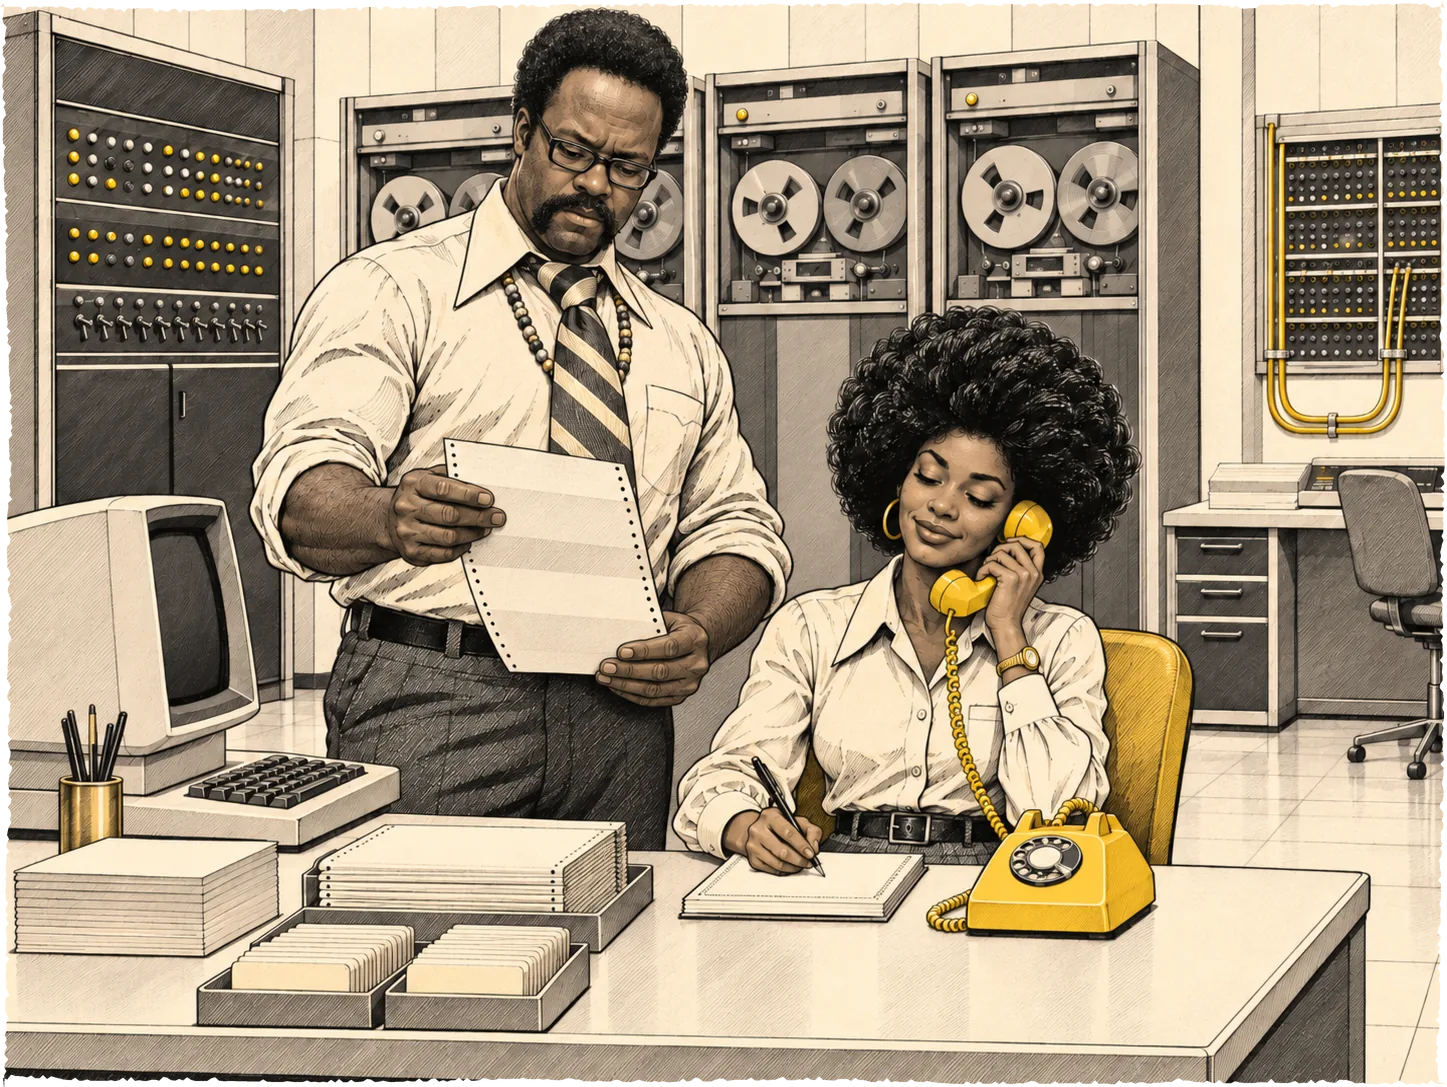
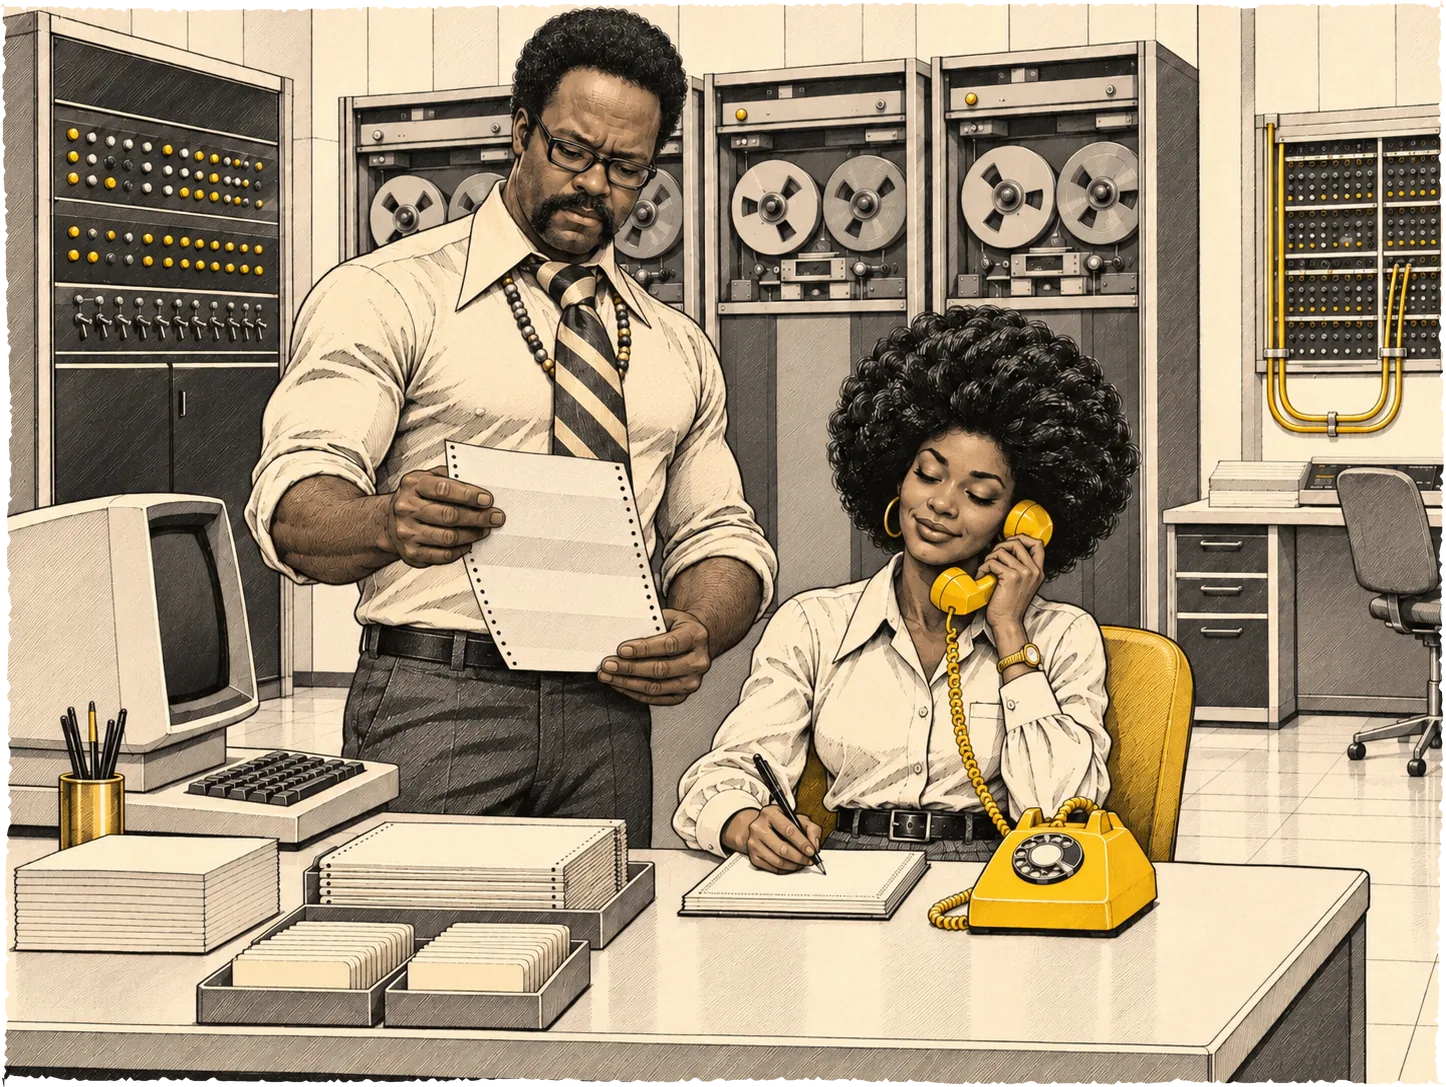
Update

Changed region(s): [[0.0, 0.0, 1.0, 1.0]]

diff --git a/index.html b/index.html
@@ -4,12 +4,12 @@
 <meta charset="utf-8">
 <meta name="viewport" content="width=device-width, initial-scale=1">
 <title>Ikem Nzeribe</title>
-<meta name="description" content="Ikem Nzeribe is building the Public Computer: a new kind of social technology, designed to bring people together.">
+<meta name="description" content="Ikem Nzeribe is building the Public Computer: a new kind of social technology, designed to bring people and the things they know together for the common good.">
 <link rel="canonical" href="https://nzeribe.uk/">
 <meta property="og:type" content="website">
 <meta property="og:url" content="https://nzeribe.uk/">
 <meta property="og:title" content="Ikem Nzeribe">
-<meta property="og:description" content="Building the Public Computer: a new kind of social technology, designed to bring people together.">
+<meta property="og:description" content="Building the Public Computer: a new kind of social technology, designed to bring people and the things they know together for the common good.">
 <meta property="og:image" content="https://nzeribe.uk/img/og.jpg">
 <meta property="og:image:width" content="1200">
 <meta property="og:image:height" content="630">
@@ -37,7 +37,7 @@
 
   <figure class="wrap card hero">
     <div class="frame">
-      <img src="img/hero-1600.webp" srcset="img/hero-900.webp 900w, img/hero-1600.webp 1447w" sizes="(min-width: 1280px) 1184px, calc(100vw - 2rem)" width="1447" height="1087" alt="A drawing of Ikem and a colleague running a 1970s computer room together: she takes a call on a yellow rotary telephone and writes it down while he reads a printout. Tape drives and lamp panels line the walls, and the room is in good order.">
+      <img src="img/hero-1600.webp" srcset="img/hero-900.webp 900w, img/hero-1600.webp 1446w" sizes="(min-width: 1280px) 1184px, calc(100vw - 2rem)" width="1446" height="1087" alt="A drawing of Ikem and a colleague running a 1970s computer room together: she takes a call on a yellow rotary telephone and writes it down while he reads a printout. Tape drives and lamp panels line the walls, and the room is in good order.">
       <p class="caption" aria-hidden="true"><span data-caption></span></p>
     </div>
   </figure>
@@ -49,7 +49,7 @@
   <section class="wrap now" aria-labelledby="now-title">
     <p class="kicker">Now</p>
     <h2 id="now-title" class="chunky">The Public Computer</h2>
-    <p class="line">A new kind of social technology, designed to bring people together.</p>
+    <p class="line">A new kind of social technology, designed to bring people and the things they know together for the common good.</p>
     <figure class="dissolve">
       <img src="img/switchboard-1600.webp" srcset="img/switchboard-900.webp 900w, img/switchboard-1600.webp 1600w" sizes="(min-width: 1280px) 1184px, calc(100vw - 2rem)" width="1600" height="533" loading="lazy" alt="A drawing of a 1970s switchboard operator connecting a chain of people, young and old, who talk to one another on yellow telephones; every cord runs back to her board.">
     </figure>

diff --git a/site.js b/site.js
@@ -6,7 +6,9 @@
       "is a new kind",
       "of social technology,",
       "designed to bring",
-      "people together."
+      "people and the things",
+      "they know together",
+      "for the common good."
     ];
     var SHOW = 1500, HOLD_LAST = 2400, GAP = 900, START = 1200;
     var i = 0;
